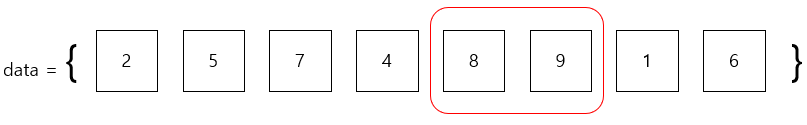
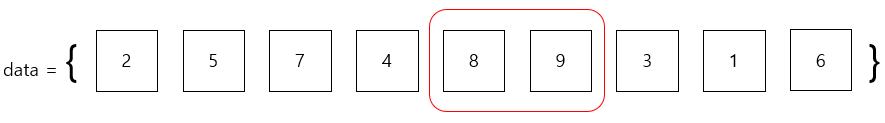
Modihy img

diff --git a/_posts/Algorithm/2022-05-27-BubleSort.md b/_posts/Algorithm/2022-05-27-BubleSort.md
@@ -11,43 +11,47 @@ toc_sticky: true
 기준이 되는 숫자와 바로옆의 숫자를 비교하여 더 작은 숫자를 앞으로 보내주는 것을 반복하는 정렬 방법이다 <br>
 시간 복잡도는 O(N^2) 이다
 
-![Desc1](https://user-images.githubusercontent.com/97664446/170823494-68943511-dc60-4891-b8fd-ffe410dd8db3.PNG) <br>
+![Desc1](https://user-images.githubusercontent.com/97664446/170835760-53b71ea1-4664-4e2a-bee4-42477311a89d.PNG) <br>
 이렇게 2와 5의 숫자를 비교한다 <br>
 큰 수가 오른쪽으로 가야하기 때문에 자리를 바꾸지 않고 다음으로 넘어가면 된다 
 
 ***
 
-![Desc2](https://user-images.githubusercontent.com/97664446/170823495-ea29b0b0-fd1f-464c-af6a-14d63be19efd.PNG) <br>
+![Desc2](https://user-images.githubusercontent.com/97664446/170835763-48deaa7a-47e9-4365-b047-b7d01d8da90d.PNG) <br>
 다음으로 5와 7을 비교한다 <br>
 마찬 가지로 큰 수인 7이 오른쪽에 있기 때문에 다음으로 넘어간다 
 
 ***
 
-![Desc3](https://user-images.githubusercontent.com/97664446/170823496-0254ddec-5df5-4ee0-bf34-c2b02167d3cc.PNG) <br>
-위와동일 
+![Desc3](https://user-images.githubusercontent.com/97664446/170835764-301fb3b9-2587-4061-8467-f7dfe9068f7c.PNG) <br>
+7과 8을 비교한다, 자리바꿈 없음 <br>
 
 ***
 
-![Desc4](https://user-images.githubusercontent.com/97664446/170823498-cf6e8547-ed5d-4158-8dd7-48bf68f0e95a.PNG) <br>
+![Desc4](https://user-images.githubusercontent.com/97664446/170835766-1a89a2f2-501b-4c1c-9192-69452c5c1261.PNG) <br>
 이번에는 왼쪽에 있는 8이 4보다 크기 때문에 서로 자리를 바꾼다
 
 ***
 
-![Desc5](https://user-images.githubusercontent.com/97664446/170823500-818385a6-2e25-4703-bd2d-57e3437e4bcf.PNG) <br>
-4와 8의 자리가 바뀌었고 다음 두 수를 계속해서 비교해 나간다
+![Desc5](https://user-images.githubusercontent.com/97664446/170835767-ac0e6357-7afe-4601-bfdf-c48236f19247.PNG) <br>
+4와 8의 자리가 바뀌었고 8과 9를 비교한다, 자리바꿈 없음 <br>
 
 ***
-![Desc6](https://user-images.githubusercontent.com/97664446/170823504-84a5f9b7-166a-47c1-9a89-88de4c63facc.PNG) <br>
+![Desc6](https://user-images.githubusercontent.com/97664446/170835768-eb479b9f-0bae-45c1-aa4d-79a2a1917659.PNG) <br>
+9와 3의 자리를 바꾼다 
+
+***
+![Desc7](https://user-images.githubusercontent.com/97664446/170835769-796fd325-dcc0-4b05-bf65-45ca21935aae.PNG) <br>
 9와 1의 자리를 바꾼다 
 
 ***
-![Desc7](https://user-images.githubusercontent.com/97664446/170823505-837ba882-748d-424b-89a5-dc0c57d9befd.PNG) <br>
-9와 6의 자리를 바꾼다 
 
+![Desc8](https://user-images.githubusercontent.com/97664446/170835772-a13471e9-5a22-487c-9ab5-ac0bb70b8061.PNG) <br>
+9와 6의 자리를 바꾼다>
 ***
+![Desc9](https://user-images.githubusercontent.com/97664446/170835773-72217ce9-7a09-45e8-a656-6098f4011711.PNG)
 
-![Desc8](https://user-images.githubusercontent.com/97664446/170828473-927f86df-5799-4569-a7be-420b1167215a.PNG) <br>
-이로써 정렬이 한번 이루어져 맨 끝 자리는 제일 큰 수(9)로 확정된다 <br>
+이로써 정렬이 한 번 이루어져 맨 끝 자리는 제일 큰 수(9)로 확정된다 <br>
 계속해서 위와 같은 과정을 반복하여 끝에서 부터 한 자리씩 수를 정렬해 나가면 된다
 
 ***

diff --git a/_posts/Algorithm/2022-05-28-SelectionSort.md b/_posts/Algorithm/2022-05-28-SelectionSort.md
@@ -13,42 +13,47 @@ toc_sticky: true
 기준이 되는 숫자와 나머지 숫자를 비교하여 작은 수를 왼쪽으로 보내면 된다 (오름차순)<br>
 시간 복잡도는 O(N^2) 이다
 
-![Desc1](https://user-images.githubusercontent.com/97664446/170832248-54401f58-438c-4670-a8b8-ed952133031b.PNG) <br>
+![Desc1](https://user-images.githubusercontent.com/97664446/170835406-f0a6849a-6e8f-473a-8477-b2a972152502.PNG) <br>
 2와 5중에 2가 더 작은 수이기 때문에 다음으로 넘어간다
 
 ***
 
-![Desc2](https://user-images.githubusercontent.com/97664446/170832249-cfe3d363-317d-4550-879e-db0374bf57fe.PNG) <br>
+![Desc2](https://user-images.githubusercontent.com/97664446/170835407-0c7cc32b-b039-4a4d-970f-2a1755de6287.PNG) <br>
 2와 7을 비교 한다, 자리바꿈 없음<br>
 
 ***
 
-![Desc3](https://user-images.githubusercontent.com/97664446/170832241-85c99f8d-41ed-4731-adc4-c67b21bd6712.PNG) <br>
+![Desc3](https://user-images.githubusercontent.com/97664446/170835399-0cb6503d-b701-4c61-9b79-86dff5214da3.PNG) <br>
 2와 8을 비교 한다, 자리바꿈 없음<br>
 
 ***
 
-![Desc4](https://user-images.githubusercontent.com/97664446/170832242-e6203d39-52e2-46c8-aadc-937753fd3482.PNG) <br>
+![Desc4](https://user-images.githubusercontent.com/97664446/170835400-ae8a8ace-6730-4e00-852f-142e446436ac.PNG) <br>
 2와 4를 비교 한다, 자리바꿈 없음<br>
 
 ***
 
-![Desc5](https://user-images.githubusercontent.com/97664446/170832243-8b4ed617-54f6-4cb5-a306-a17c194cdc15.PNG) <br>
+![Desc5](https://user-images.githubusercontent.com/97664446/170835401-83874e9d-139a-4f42-86a9-3e9572dc99b2.PNG) <br>
 2와 9를 비교 한다, 자리바꿈 없음<br>
 
 ***
 
-![Desc6](https://user-images.githubusercontent.com/97664446/170832245-7b49d664-3309-40b1-b3cf-f19af6986529.PNG) <br>
+![Desc6](https://user-images.githubusercontent.com/97664446/170835402-a60d4c9b-8cb4-4e5e-a3ee-82fb4dfd3a59.PNG) <br>
+2와 3을 비교한다, 자리바꿈 없음 <br>
+
+***
+
+![Desc7](https://user-images.githubusercontent.com/97664446/170835403-8846bd8a-2ad5-493b-bcfb-24493bfaf7c7.PNG) <br>
 2와 1을 비교 한다, 1이 더 작기 때문에 자리를 바꾼다 <br>
 
 ***
 
-![Desc7](https://user-images.githubusercontent.com/97664446/170832246-2482d431-08b8-49eb-b692-31272157cc52.PNG) <br>
+![Desc8](https://user-images.githubusercontent.com/97664446/170835404-be7b5bd7-6956-48e8-9497-e98fa7709411.PNG) <br>
 1과 6을 비교한다, 자리바꿈 없음 <br>
 
 ***
 
-![Desc8](https://user-images.githubusercontent.com/97664446/170832247-61cd32de-6a43-42d5-8abc-e7c0d7a02c62.PNG) <br>
+![Desc9](https://user-images.githubusercontent.com/97664446/170835405-6952b5d9-4622-45a8-bd3e-39c0e43cc041.PNG) <br>
 한 번 정렬이 실행되어 배열의 첫 번째 index에는 가장 작은 숫자가 오게된다 <br>
 이제 기준이 되는 [index = 1]에 있는 숫자 5부터 다시 정렬 과정을 반복한다 
 
